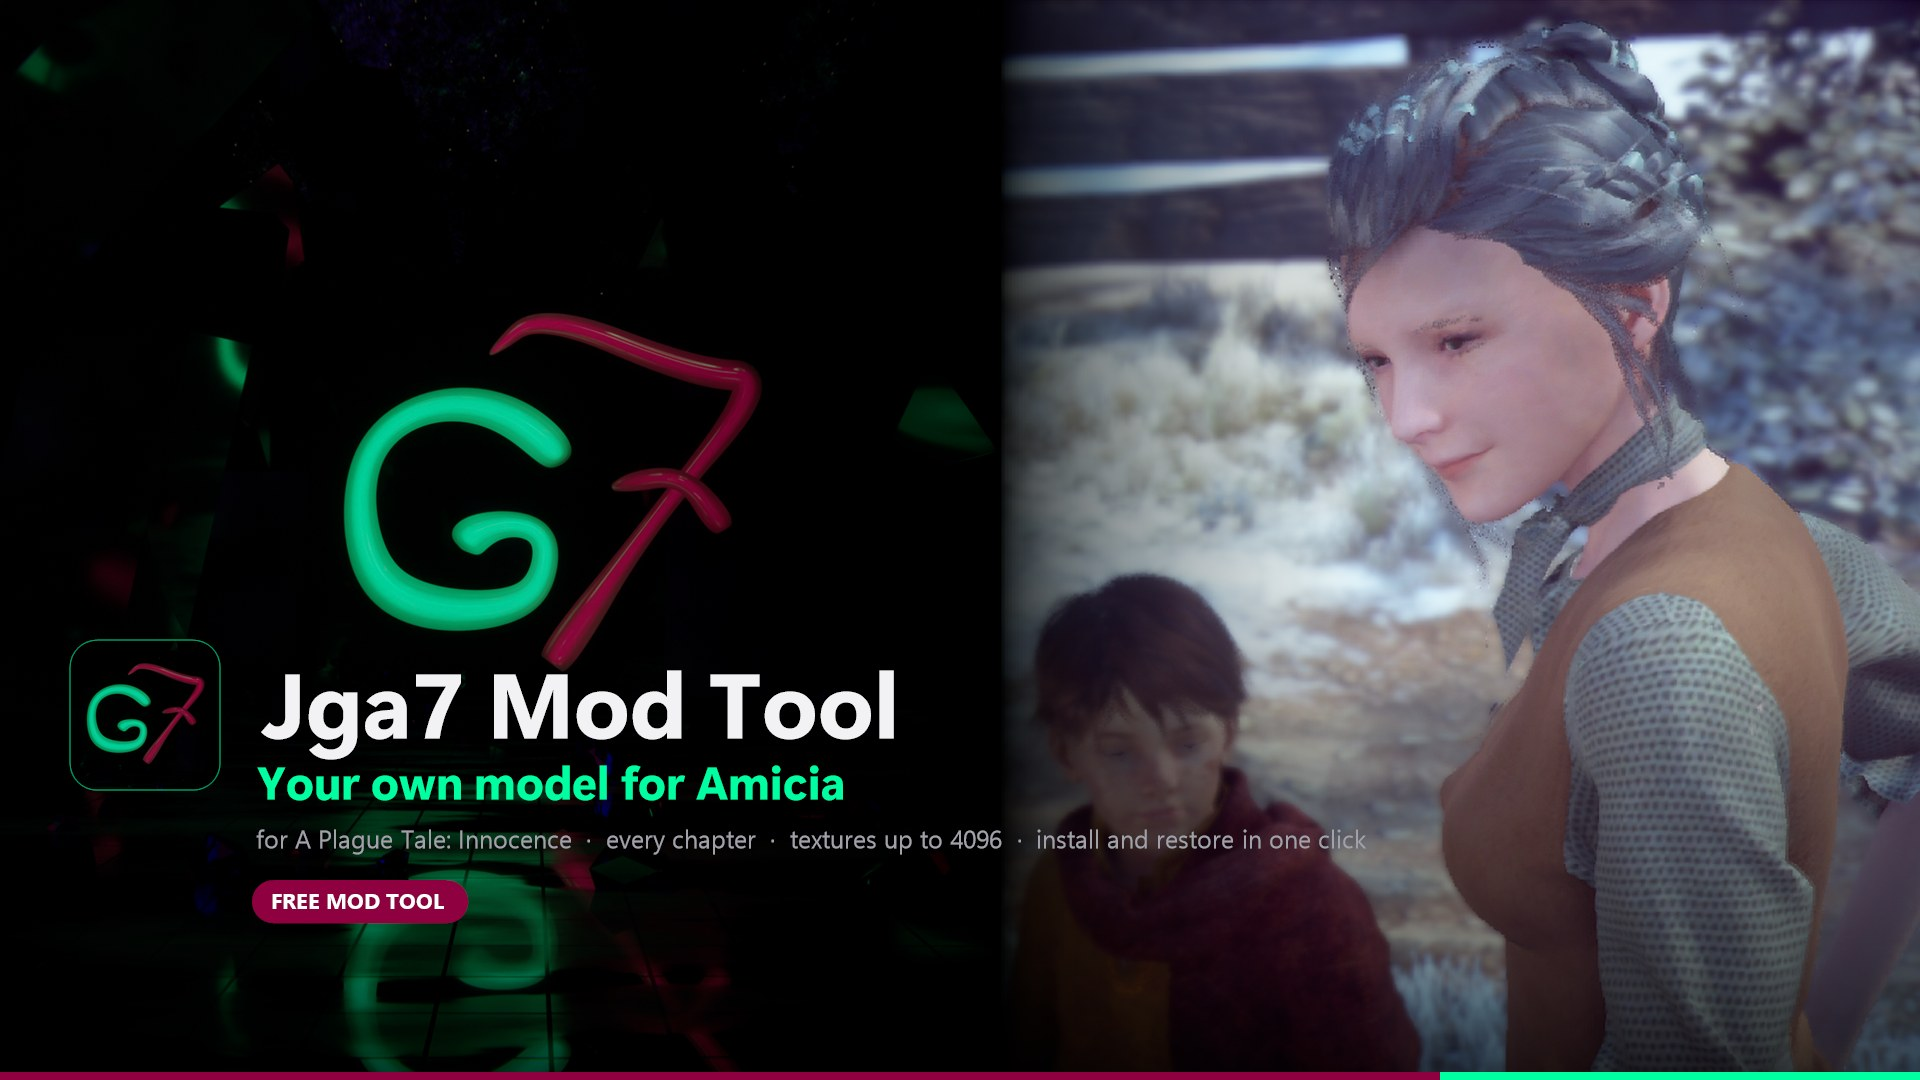
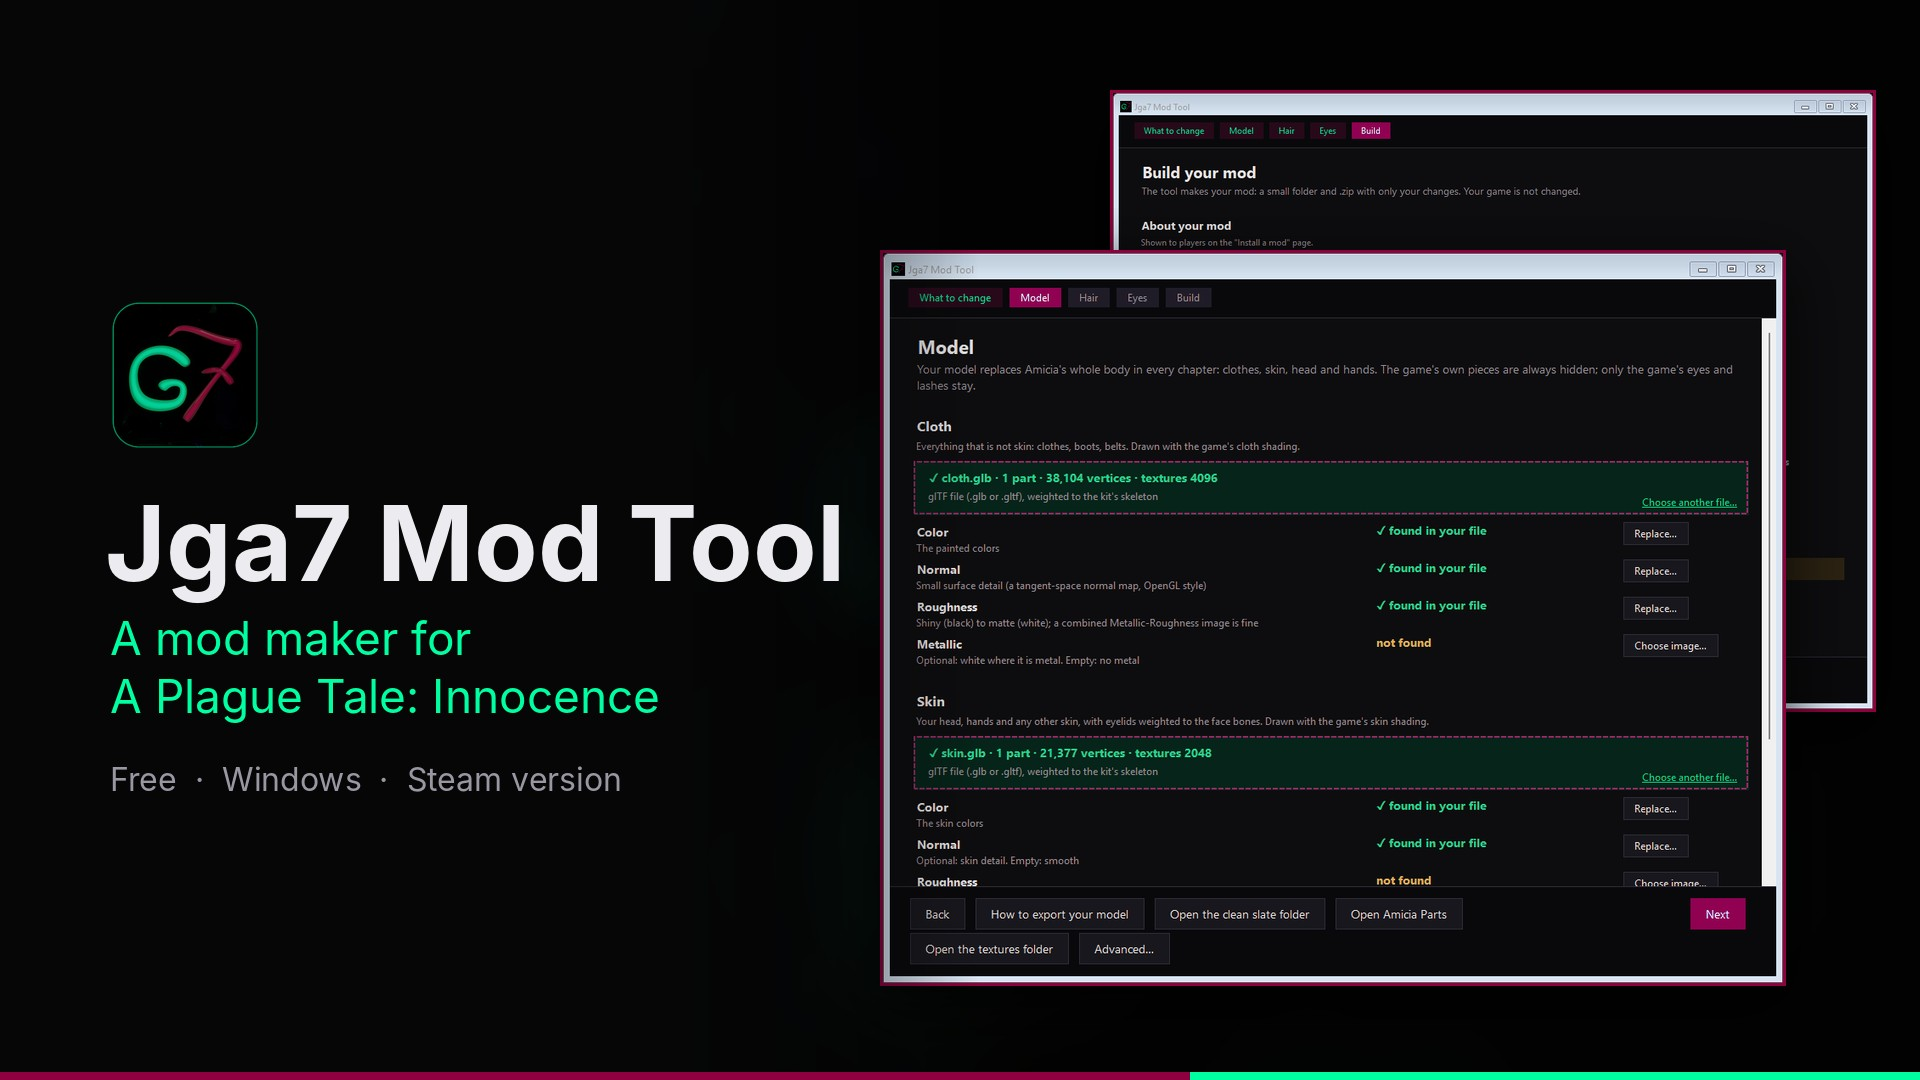
New cover focused on the tool; plainer text and captions
Claude-Session: https://claude.ai/code/session_01SAMzJPqmsD1W7fb59wijsP

diff --git a/index.html b/index.html
@@ -7,7 +7,7 @@
 <meta name="description" content="Make, install and restore Amicia mods for A Plague Tale: Innocence (Steam). Free Windows tool by Jga7.">
 <meta property="og:title" content="Jga7 Mod Tool">
 <meta property="og:description" content="Make, install and restore Amicia mods for A Plague Tale: Innocence (Steam). Free Windows tool by Jga7.">
-<meta property="og:image" content="https://jga7o.github.io/jga7-mod-tool/images/launch/cover_1920x1080.jpg">
+<meta property="og:image" content="https://jga7o.github.io/jga7-mod-tool/images/launch/cover_1920x1080.jpg?v=2">
 <link rel="icon" href="images/launch/icon_256.png">
 <link rel="stylesheet" href="style.css?v=2">
 </head>
@@ -27,19 +27,19 @@
 <main>
   <section class="hero">
     <div class="wrap">
-      <h1>Your own look. <span class="green">In every chapter.</span></h1>
-      <p class="sub">Make a mod from your Blender model, hair and eye color. Install it in one click. Restore the originals any time.</p>
+      <h1>Make and install character mods for <span class="green">A Plague Tale: Innocence</span>.</h1>
+      <p class="sub">Bring your model in from Blender, build the mod, and install it. The original game files are backed up first.</p>
       <div class="btns">
         <a class="btn" href="https://jga7.gumroad.com/l/ludzha">Get it on Gumroad</a>
         <a class="btn out" href="https://www.nexusmods.com/aplaguetaleinnocence/mods/48">Nexus Mods</a>
         <a class="btn out" href="https://github.com/Jga7o/jga7-mod-tool/releases/latest">Download from GitHub</a>
       </div>
       <ul class="tags">
-        <li>4K textures</li>
+        <li>4096 textures</li>
         <li>All chapters</li>
-        <li>One-click restore</li>
+        <li>Backup and restore</li>
       </ul>
-      <img src="images/launch/cover_1920x1080.jpg" alt="Jga7 Mod Tool: an example model made with the tool, in A Plague Tale: Innocence" width="1920" height="1080">
+      <img src="images/launch/cover_1920x1080.jpg?v=2" alt="Jga7 Mod Tool: the Model and Build pages of the tool" width="1920" height="1080">
     </div>
   </section>
 
@@ -48,11 +48,11 @@
       <h2>In the game</h2>
       <p class="mute">The character in the pictures is an example made with this tool. It does not come with the tool: the tool helps you make and install your own.</p>
       <div class="gallery">
-        <a href="images/launch/showcase_1.jpg"><img src="images/launch/showcase_1.jpg" alt="Cutscenes keep working" loading="lazy">Cutscenes keep working</a>
-        <a href="images/launch/showcase_2.jpg"><img src="images/launch/showcase_2.jpg" alt="One mod, the whole game" loading="lazy">One mod, the whole game</a>
-        <a href="images/launch/showcase_3.jpg"><img src="images/launch/showcase_3.jpg" alt="Sharp up close" loading="lazy">Sharp up close</a>
-        <a href="images/launch/showcase_4.jpg"><img src="images/launch/showcase_4.jpg" alt="Made to fit the scenes" loading="lazy">Made to fit the scenes</a>
-        <a href="images/launch/showcase_5.jpg"><img src="images/launch/showcase_5.jpg" alt="One click, your originals saved" loading="lazy">One click, your originals saved</a>
+        <a href="images/launch/showcase_1.jpg?v=2"><img src="images/launch/showcase_1.jpg?v=2" alt="Works in cutscenes" loading="lazy">Works in cutscenes</a>
+        <a href="images/launch/showcase_2.jpg?v=2"><img src="images/launch/showcase_2.jpg?v=2" alt="Every chapter" loading="lazy">Every chapter</a>
+        <a href="images/launch/showcase_3.jpg?v=2"><img src="images/launch/showcase_3.jpg?v=2" alt="Up to 4096 textures" loading="lazy">Up to 4096 textures</a>
+        <a href="images/launch/showcase_4.jpg?v=2"><img src="images/launch/showcase_4.jpg?v=2" alt="Uses the game&#39;s animations" loading="lazy">Uses the game&#39;s animations</a>
+        <a href="images/launch/showcase_5.jpg?v=2"><img src="images/launch/showcase_5.jpg?v=2" alt="Backup and restore" loading="lazy">Backup and restore</a>
       </div>
     </div>
   </section>
